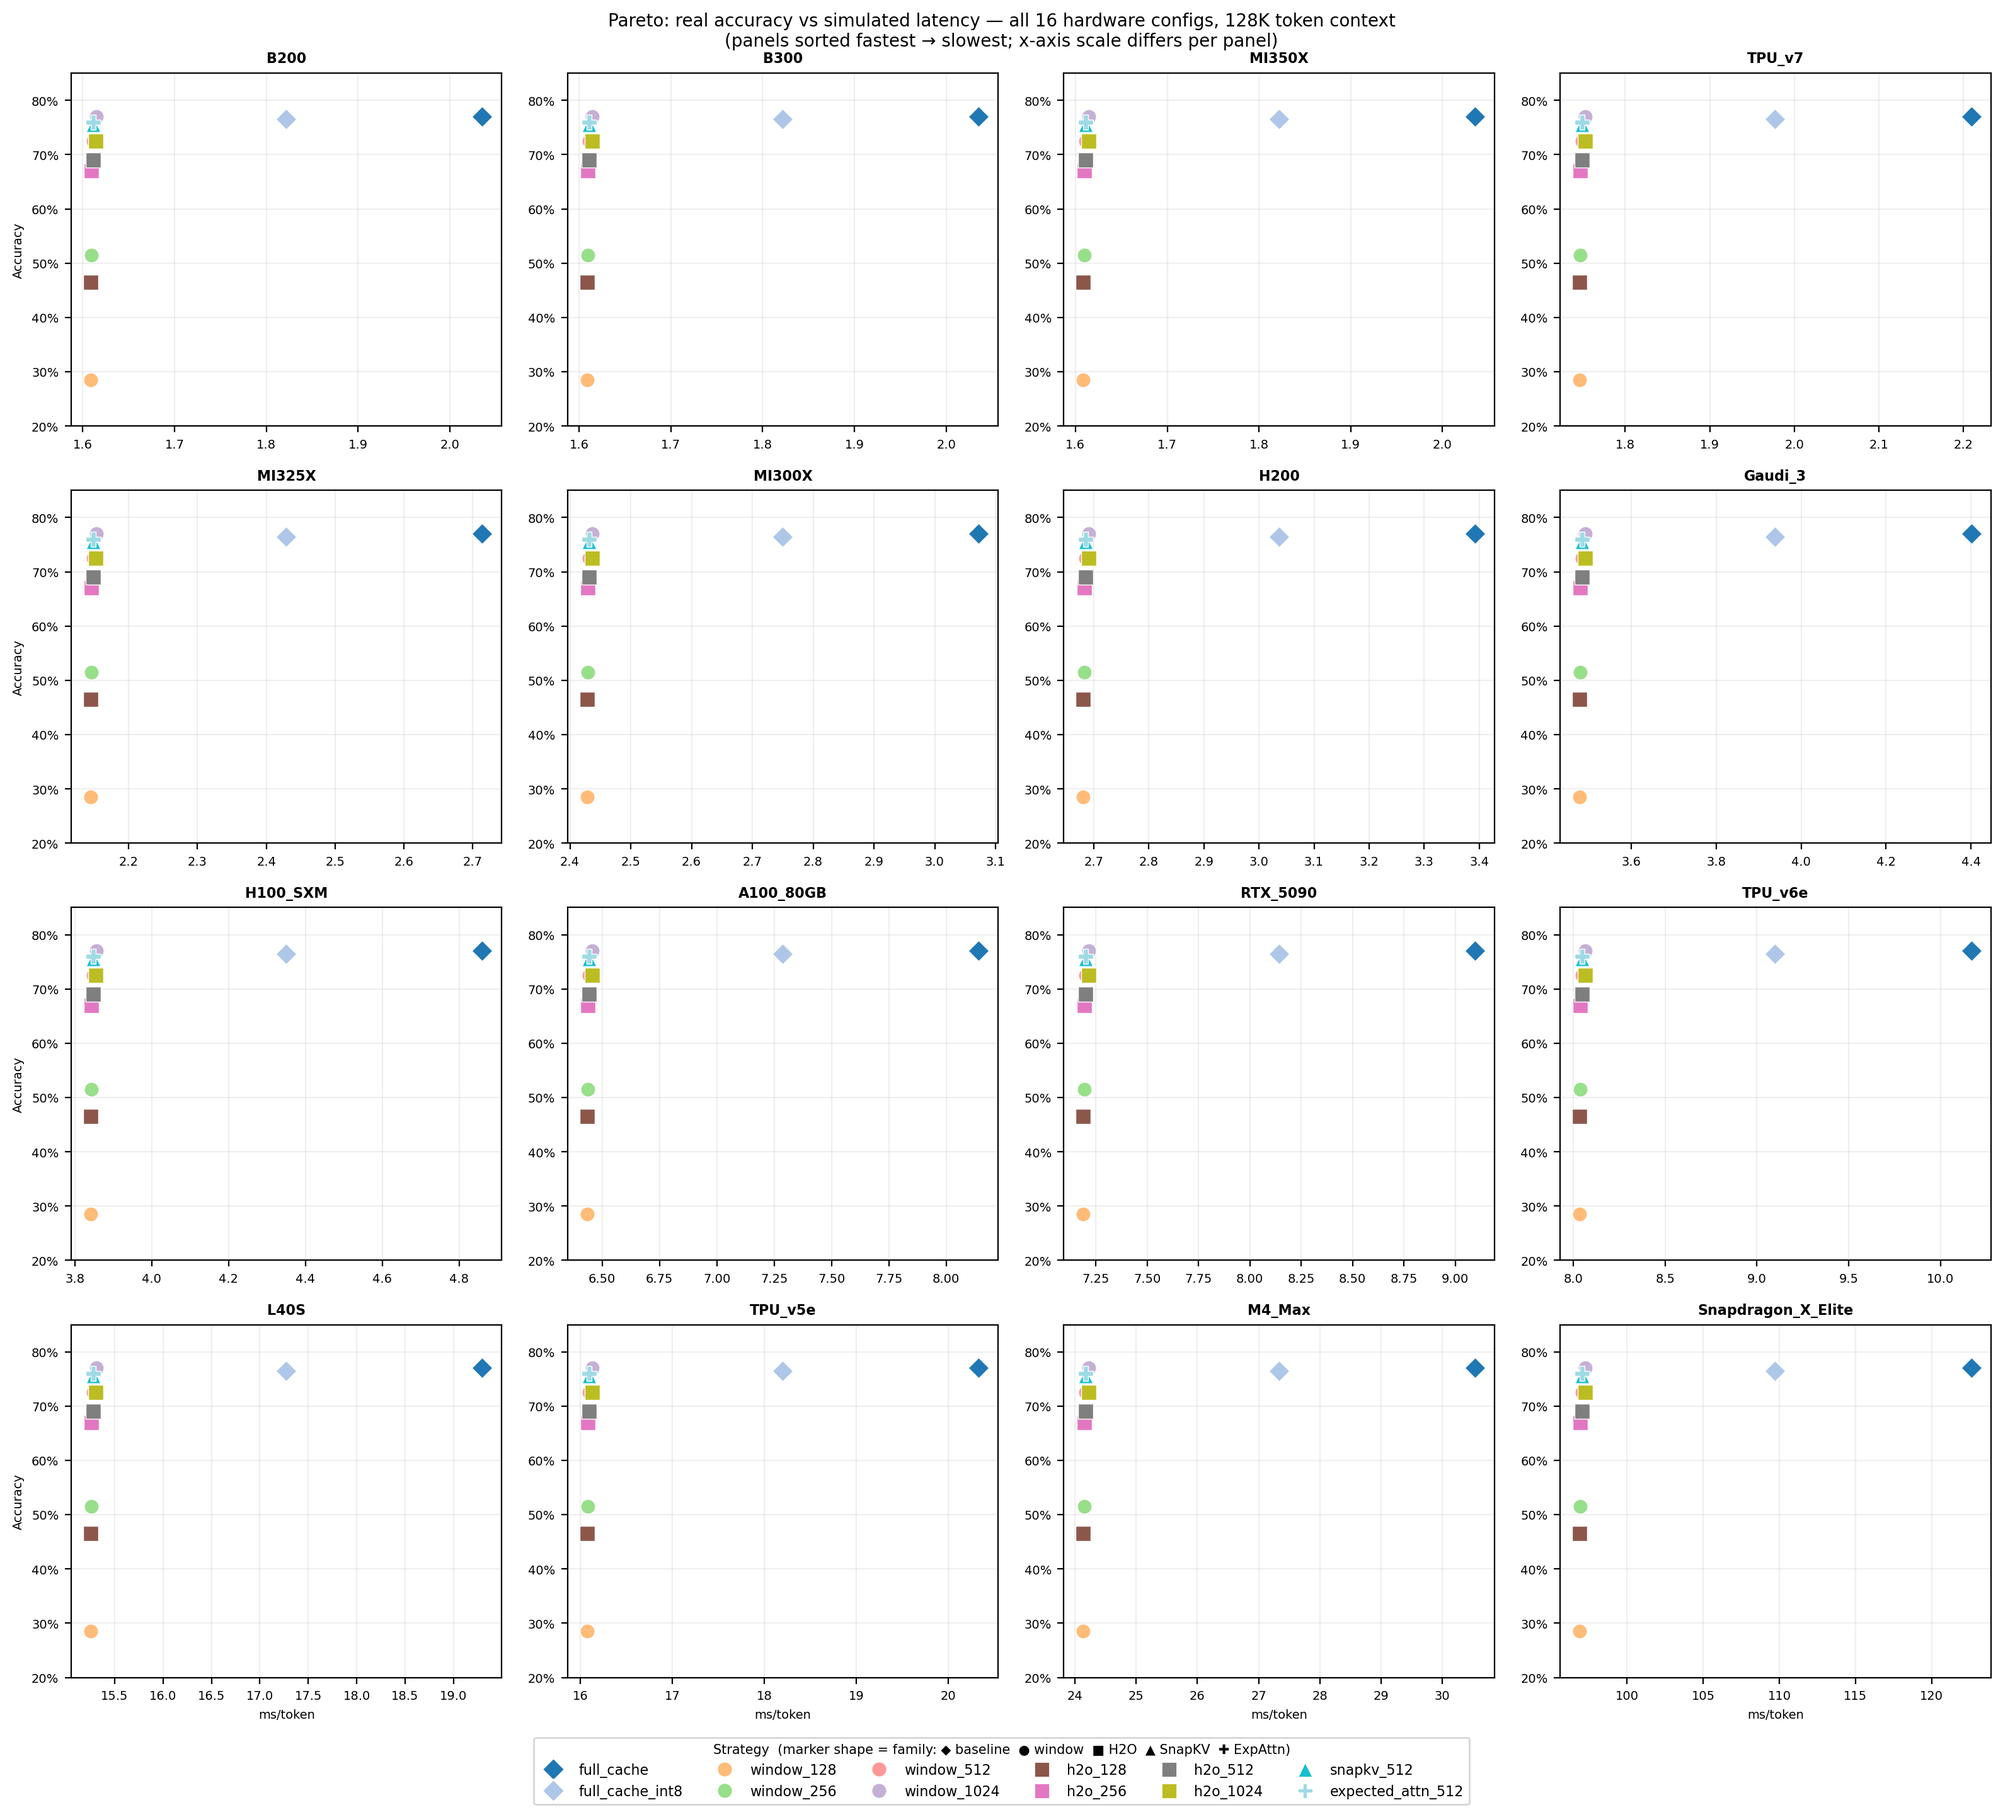
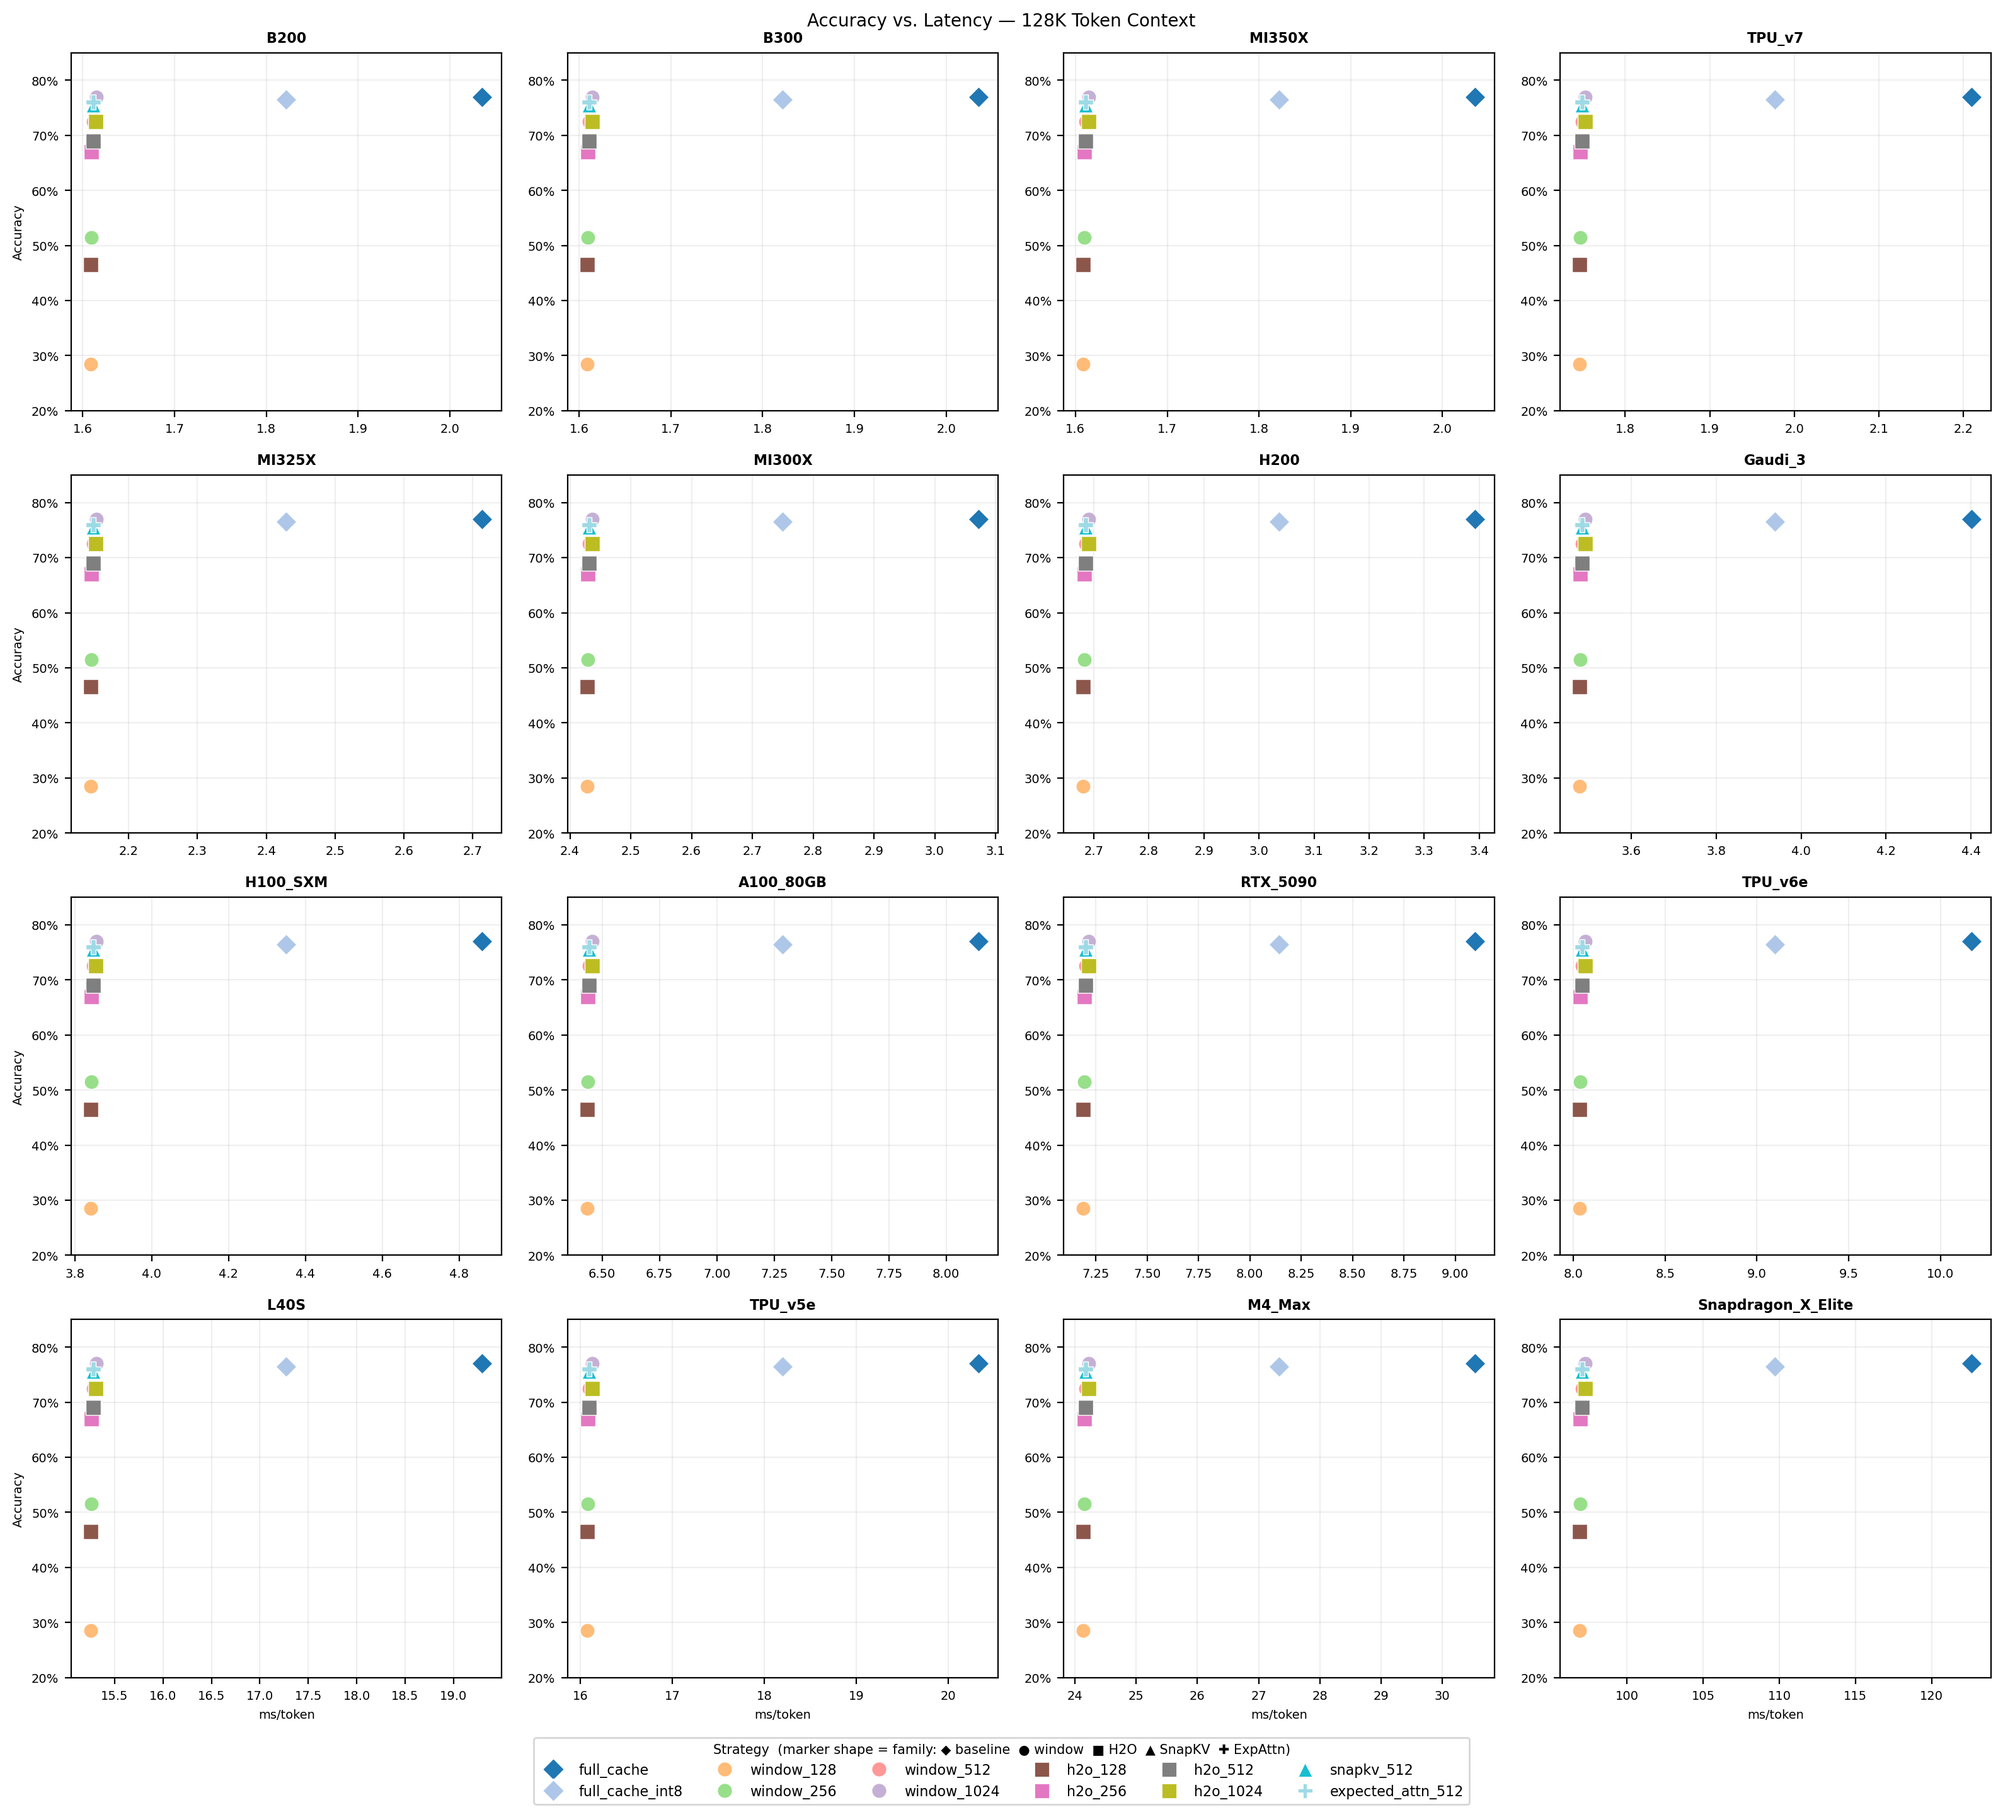
fix: pareto curves

diff --git a/scripts/plot_analysis.py b/scripts/plot_analysis.py
@@ -220,8 +220,7 @@ ax.set_xticklabels([lbl for *_, lbl in SPLIT_LABELS], fontsize=8)
 ax.set_ylabel("Mean latency per decode step (ms)", fontsize=10)
 ax.set_xlabel("KV cache tier placement split", fontsize=10)
 ax.set_title(
-    f"Tier Split Impact on Decode Latency — '{STRATEGY}'\n"
-    "(roofline simulation, Qwen2.5-7B, avg 619 decode steps)",
+    "Tier Split Impact on Decode Latency",
     fontsize=11,
 )
 ax.grid(alpha=0.25, axis="y")
@@ -437,8 +436,7 @@ else:
     )
 
     fig.suptitle(
-        f"Pareto: real accuracy vs simulated latency — all 16 hardware configs, {LONG_CTX//1024}K token context\n"
-        "(panels sorted fastest → slowest; x-axis scale differs per panel)",
+        f"Accuracy vs. Latency — 128K Token Context",
         fontsize=10,
     )
     fig.tight_layout()
@@ -446,3 +444,95 @@ else:
     fig.savefig(out4, dpi=200, bbox_inches="tight")
     plt.close(fig)
     print(f"Saved {out4}")
+
+
+# ===========================================================================
+# Plot 5: Pareto grid — all 16 hardware, real eval context (~619 tokens)
+# ===========================================================================
+# Same structure as plot 4 but uses latency_simulation.jsonl (all-HBM split),
+# which was computed from actual mean prompt/decode lengths in the accuracy eval.
+
+REAL_LAT_JSONL = OUTPUT_DIR / "latency_simulation.jsonl"
+
+if not REAL_LAT_JSONL.exists():
+    print(f"Skipping plot 5: {REAL_LAT_JSONL} not found")
+else:
+    real_lat_records: list[dict] = []
+    with REAL_LAT_JSONL.open() as f:
+        for line in f:
+            real_lat_records.append(json.loads(line))
+
+    # All-HBM split only
+    real_lat_lookup: dict[tuple, float] = {
+        (r["hardware"], r["strategy"]): r["mean_latency_ms"]
+        for r in real_lat_records
+        if r["hbm_frac"] == 1.0 and r["cpu_frac"] == 0.0 and r["disk_frac"] == 0.0
+    }
+
+    all_hw_real = sorted({r["hardware"] for r in real_lat_records})
+    hw_order_real = sorted(
+        all_hw_real,
+        key=lambda hw: real_lat_lookup.get((hw, "full_cache"), float("inf")),
+    )
+
+    NCOLS = 4
+    NROWS = int(np.ceil(len(hw_order_real) / NCOLS))
+    fig, axes = plt.subplots(NROWS, NCOLS, figsize=(NCOLS * 4, NROWS * 3.5))
+    axes_flat = axes.flatten()
+
+    for i, hw_name in enumerate(hw_order_real):
+        ax = axes_flat[i]
+
+        for strat in STRATEGY_ORDER:
+            lat = real_lat_lookup.get((hw_name, strat))
+            acc = strat_acc.get(strat)
+            if lat is None or acc is None:
+                continue
+            ax.scatter(lat, acc,
+                       color=STRAT_COLOR[strat],
+                       marker=STRAT_MARKER.get(strat, "o"),
+                       s=70, zorder=3, edgecolors="white", linewidths=0.5)
+
+        ax.yaxis.set_major_formatter(mtick.PercentFormatter(1.0))
+        ax.set_ylim(0.20, 0.85)
+        ax.set_title(hw_name, fontsize=8, fontweight="bold")
+        ax.tick_params(labelsize=7)
+        ax.grid(alpha=0.2)
+
+        if i >= len(hw_order_real) - NCOLS:
+            ax.set_xlabel("ms/token", fontsize=7)
+        if i % NCOLS == 0:
+            ax.set_ylabel("Accuracy", fontsize=7)
+
+    for j in range(len(hw_order_real), len(axes_flat)):
+        axes_flat[j].set_visible(False)
+
+    legend_elements = [
+        _L2D([0], [0],
+             marker=STRAT_MARKER.get(s, "o"),
+             color="w",
+             markerfacecolor=STRAT_COLOR[s],
+             markersize=9,
+             label=s)
+        for s in STRATEGY_ORDER
+    ]
+    fig.legend(
+        handles=legend_elements,
+        ncol=6,
+        fontsize=8,
+        loc="lower center",
+        bbox_to_anchor=(0.5, -0.04),
+        frameon=True,
+        title="Strategy  (marker shape = family: ◆ baseline  ● window  ■ H2O  ▲ SnapKV  ✚ ExpAttn)",
+        title_fontsize=7.5,
+    )
+
+    fig.suptitle(
+        "Accuracy vs. Latency — Real Eval Context (~619 tokens)",
+        fontsize=10,
+    )
+    fig.tight_layout()
+    out5 = OUTPUT_DIR / "pareto_all_hardware_real.png"
+    fig.savefig(out5, dpi=200, bbox_inches="tight")
+    plt.close(fig)
+    print(f"Saved {out5}")
